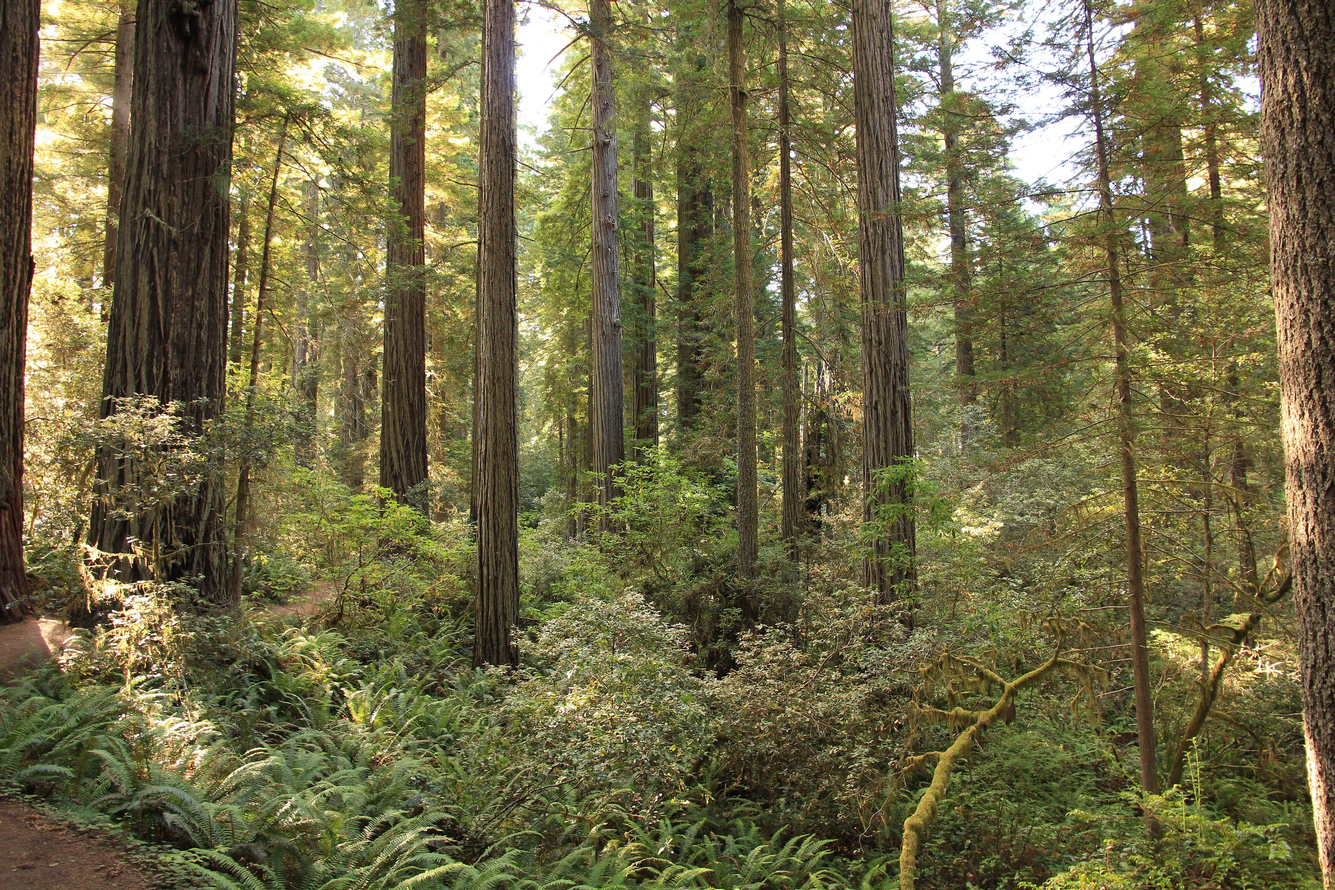
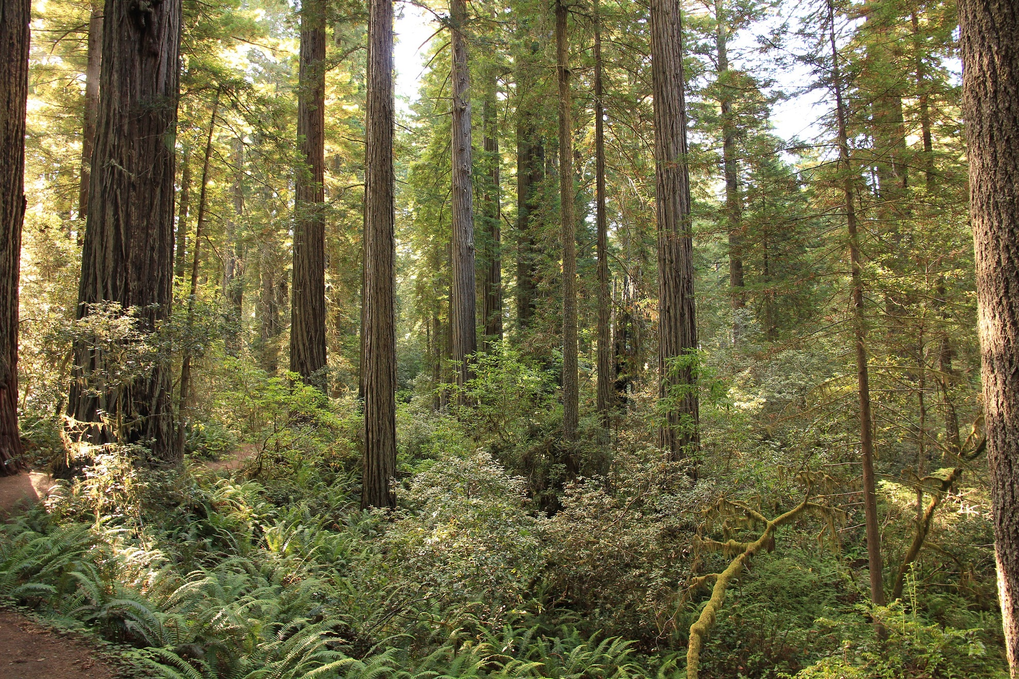
resized background image

diff --git a/assets/css/style.css b/assets/css/style.css
@@ -152,13 +152,13 @@ ul {
     align-items: center;
 }
 
-@media only screen and (max-width: 767px) {
+/* @media only screen and (max-width: 767px) {
     body {
       /* The file size of this background image is 93% smaller
          to improve page load speed on mobile internet connections */
       background-image: url("../images/redwoodNatParkSmall.jpg");
     }
-  }
+  } */
 
 
 
